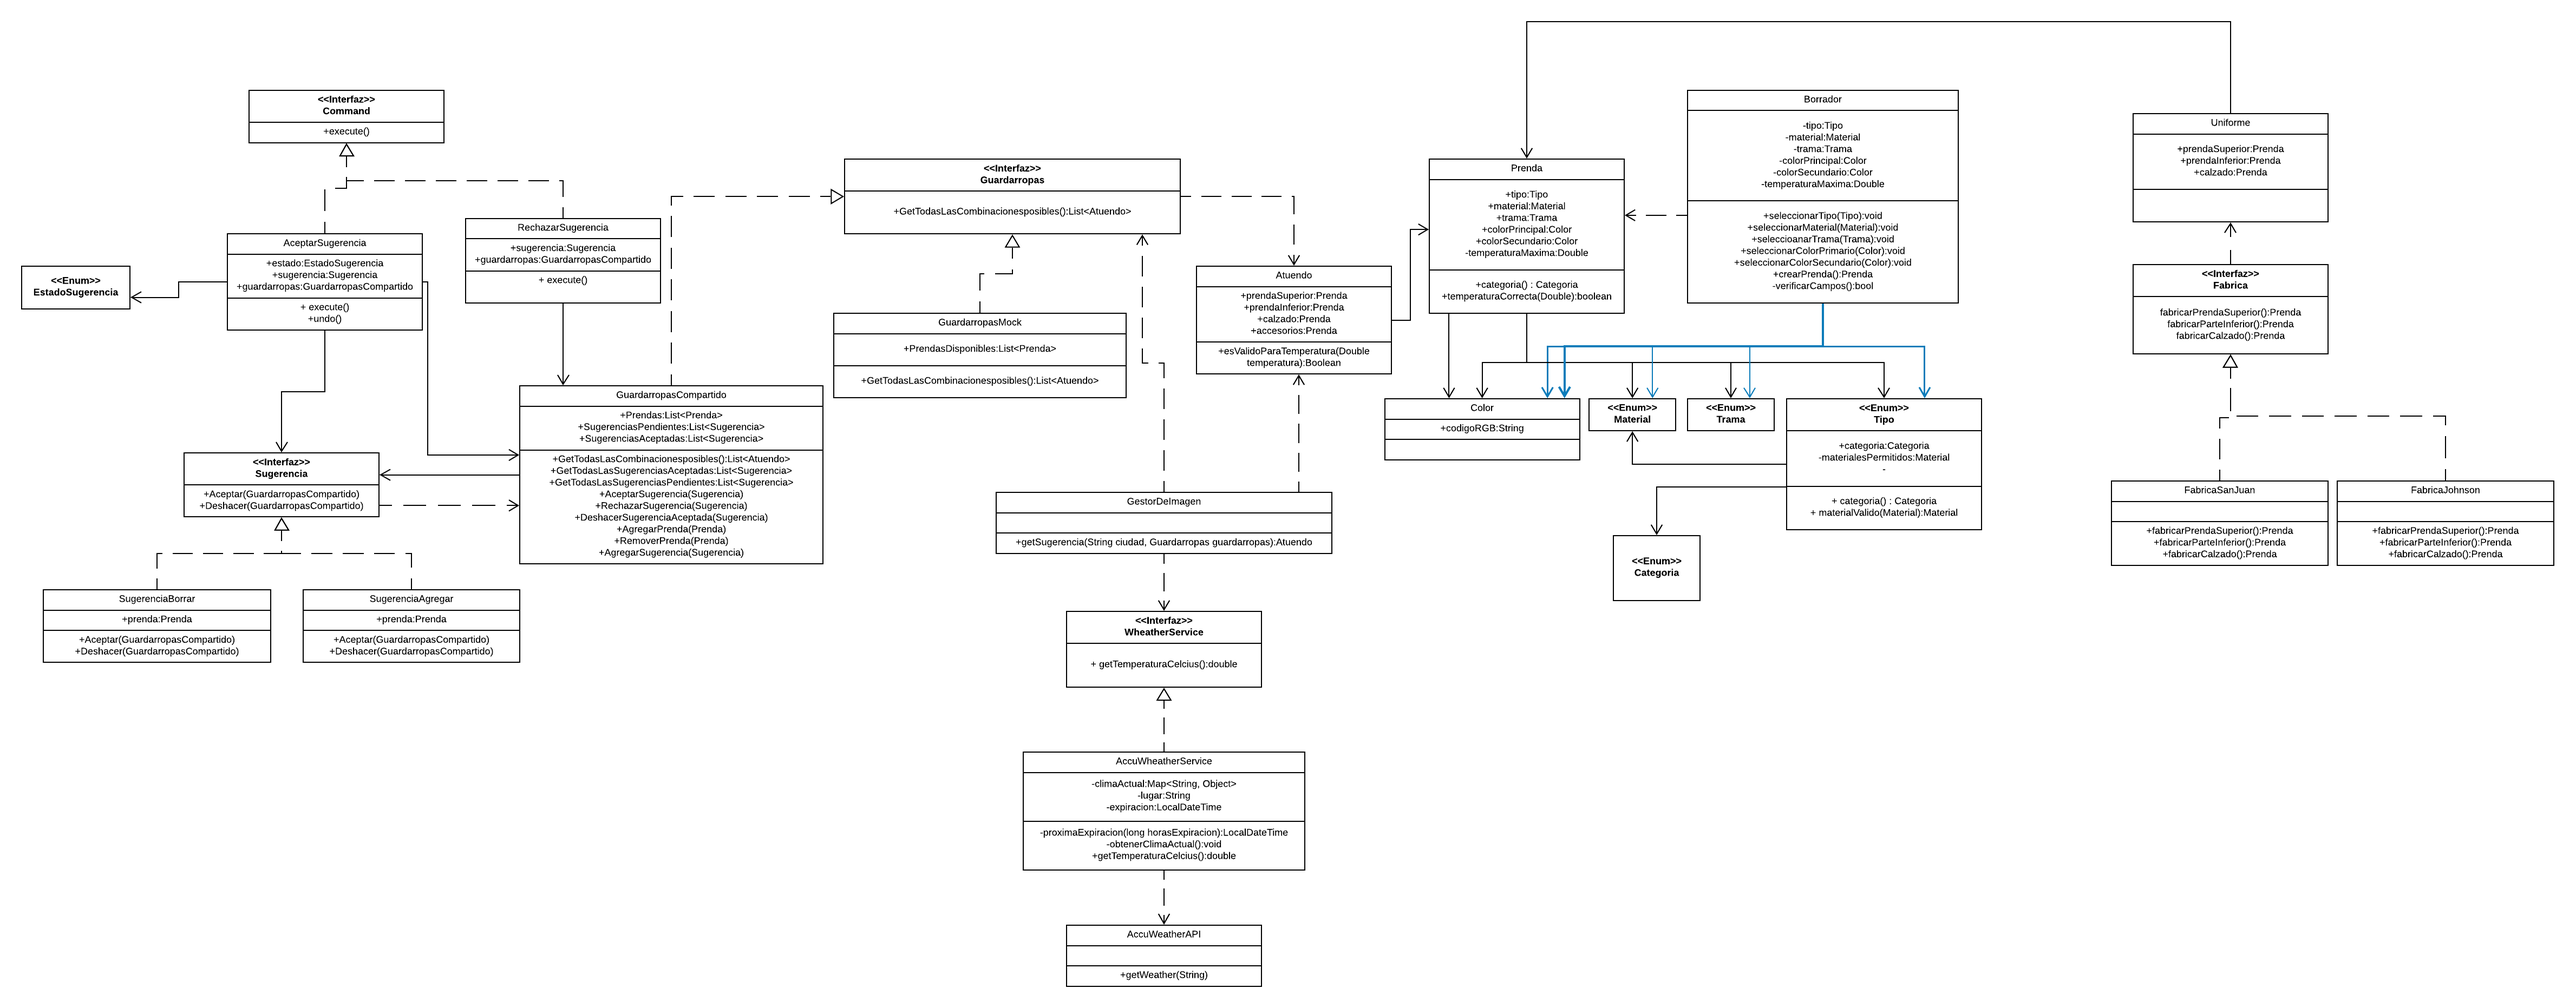
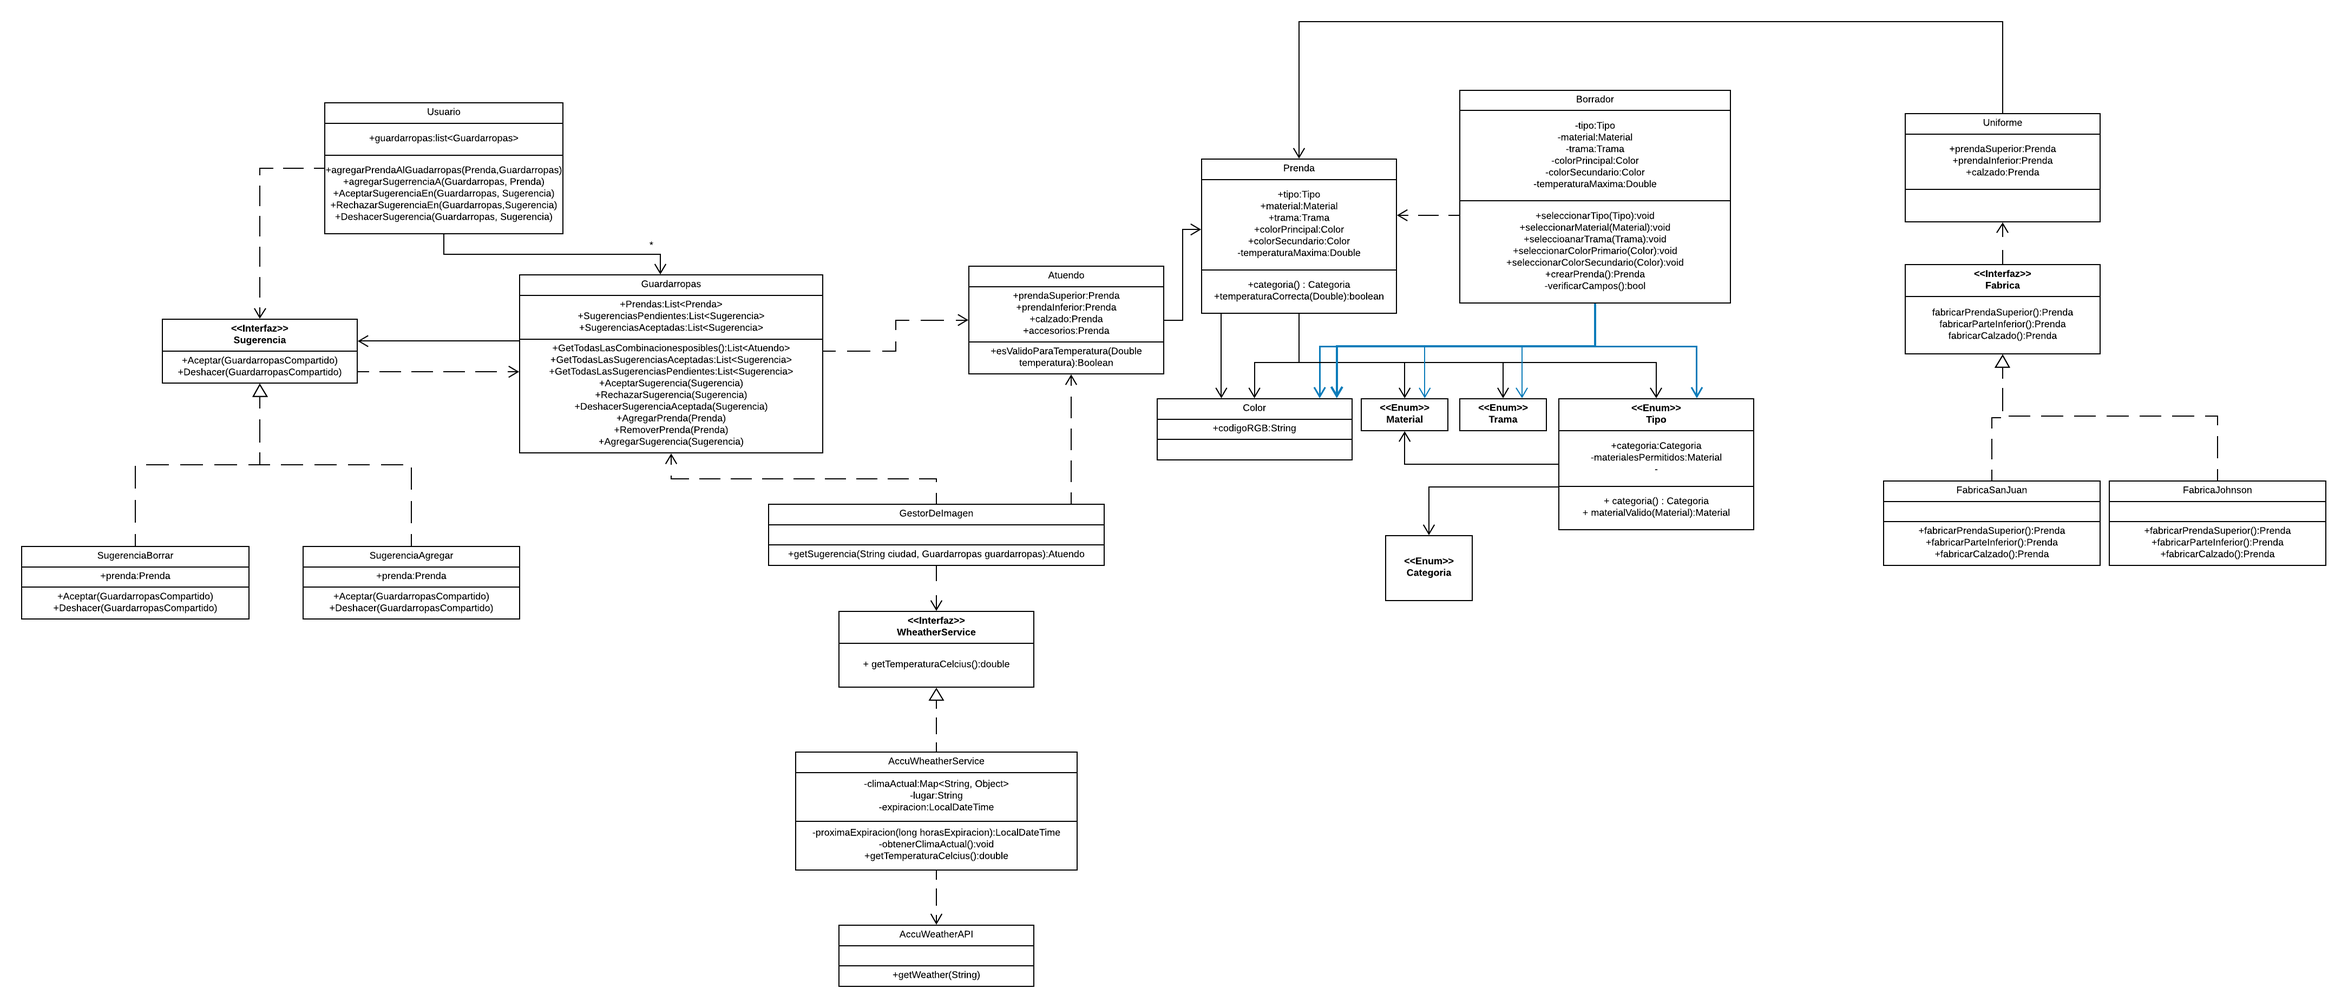
Correcciones quinta iteracion

diff --git a/QueMePongo-Java/src/main/java/Common/Usuario.java b/QueMePongo-Java/src/main/java/Common/Usuario.java
@@ -1,0 +1,36 @@
+package Common;
+
+import java.util.*;
+
+import Interfaces.Sugerencia;
+
+public class Usuario {
+	public List<Guardarropas> guardarropas;
+	
+	public Usuario() {
+		guardarropas = new ArrayList<Guardarropas>();
+	}
+	public List<Prenda> getPrendasDe(Guardarropas guardarropas) {
+		return guardarropas.getPrendas();
+	}
+	public List<Guardarropas> getTodosLosGuardarropas(){
+		return this.guardarropas;
+	}
+	public void agregarPrendaAlGuadarropas(Prenda prenda,Guardarropas guardarropas) {
+		guardarropas.agregarPrenda(prenda);
+	}
+	public void	agregarSugerrenciaDeAgregarPrendaA(Guardarropas guardarropas, Prenda prenda) {
+		Sugerencia sugerencia = new SugerenciaAgregar(prenda);
+		guardarropas.agregarSugerencia(sugerencia);
+	}
+	//REVISAR SI CORRESPONDE AL ALCANZE DEL USUARIO
+	public void AceptarSugerenciaEn(Guardarropas guardarropas, Sugerencia sugerencia) {
+		guardarropas.aceptarSugerencia(sugerencia);
+	}
+	public void RechazarSugerenciaEn(Guardarropas guardarropas,Sugerencia sugerencia) {
+		guardarropas.rechazarSugerencia(sugerencia);
+	}
+	public void DeshacerSugerencia(Guardarropas guardarropas, Sugerencia sugerencia) {
+		guardarropas.deshacerSugerenciaAceptada(sugerencia);
+	}
+}

diff --git a/QueMePongo-Java/src/main/java/Common/Guardarropas.java b/QueMePongo-Java/src/main/java/Common/Guardarropas.java
@@ -2,10 +2,9 @@ package Common;
 
 import java.util.List;
 
-import Interfaces.Guardarropas;
 import Interfaces.Sugerencia;
 
-public class GuardarropasCompartido implements Guardarropas{
+public class Guardarropas{
 	private List<Prenda> prendas;
 	public List<Sugerencia> sugerenciasPendientes;
 	public List<Sugerencia> sugerenciasAceptadas;
@@ -40,5 +39,8 @@ public class GuardarropasCompartido implements Guardarropas{
 	}
 	public void agregarSugerencia(Sugerencia sugerencia) {
 		this.sugerenciasPendientes.add(sugerencia);
+	}
+	public List<Prenda> getPrendas() {
+		return prendas;
 	}
 }

diff --git a/QueMePongo-Java/src/main/java/Common/GestorDeImagen.java b/QueMePongo-Java/src/main/java/Common/GestorDeImagen.java
@@ -3,11 +3,11 @@ package Common;
 import java.util.List;
 import java.util.stream.Collectors;
 
-import Interfaces.Guardarropas;
 import Interfaces.WeatherService;
+import Mocks.GuardarropasMock;
 
 public class GestorDeImagen {
-	public Atuendo getSugerencia(String ciudad, Guardarropas guardarropas){
+	public Atuendo getSugerencia(String ciudad, GuardarropasMock guardarropas){
 		AccuWheatherService clima = new AccuWheatherService("Buenos Aires, Argentina",1);
 		
 		Double temperatura = clima.getTemperaturaCelcius();

diff --git a/QueMePongo-Java/src/main/java/Common/SugerenciaAgregar.java b/QueMePongo-Java/src/main/java/Common/SugerenciaAgregar.java
@@ -5,10 +5,13 @@ import Interfaces.Sugerencia;
 public class SugerenciaAgregar  implements Sugerencia{
 	private Prenda prenda;
 	
-	public void Aceptar(GuardarropasCompartido guardarropas) {
+	public SugerenciaAgregar(Prenda prenda) {
+		this.prenda = prenda;
+	}
+	public void Aceptar(Guardarropas guardarropas) {
 		guardarropas.agregarPrenda(prenda);
 	}
-	public void Deshacer(GuardarropasCompartido guardarropas) {
+	public void Deshacer(Guardarropas guardarropas) {
 		guardarropas.removerPrenda(prenda);
 	}
 }

diff --git a/QueMePongo-Java/src/main/java/Common/SugerenciaBorrar.java b/QueMePongo-Java/src/main/java/Common/SugerenciaBorrar.java
@@ -5,10 +5,13 @@ import Interfaces.Sugerencia;
 public class SugerenciaBorrar implements Sugerencia{
 	private Prenda prenda;
 
-	public void Aceptar(GuardarropasCompartido guardarropas) {
+	public SugerenciaBorrar(Prenda prenda) {
+		this.prenda = prenda;
+	}	
+	public void Aceptar(Guardarropas guardarropas) {
 		guardarropas.removerPrenda(prenda);
 	}
-	public void Deshacer(GuardarropasCompartido guardarropas) {
+	public void Deshacer(Guardarropas guardarropas) {
 		guardarropas.agregarPrenda(prenda);
 	}
 }

diff --git a/QueMePongo-Java/src/main/java/Interfaces/Sugerencia.java b/QueMePongo-Java/src/main/java/Interfaces/Sugerencia.java
@@ -1,8 +1,8 @@
 package Interfaces;
 
-import Common.GuardarropasCompartido;
+import Common.Guardarropas;
 
 public interface Sugerencia {
-	public void Aceptar(GuardarropasCompartido guardarropas);
-	public void Deshacer(GuardarropasCompartido guardarropas);
+	public void Aceptar(Guardarropas guardarropas);
+	public void Deshacer(Guardarropas guardarropas);
 }

diff --git a/QueMePongo-Java/src/main/java/Mocks/GuardarropasMock.java b/QueMePongo-Java/src/main/java/Mocks/GuardarropasMock.java
@@ -4,9 +4,9 @@ import java.util.*;
 
 import Common.Atuendo;
 import Common.Prenda;
-import Interfaces.Guardarropas;
+import Common.Guardarropas;
 
-public class GuardarropasMock implements Guardarropas{
+public class GuardarropasMock{
 	List<Prenda> prendasDisponibles;
 	
 	public GuardarropasMock() {
